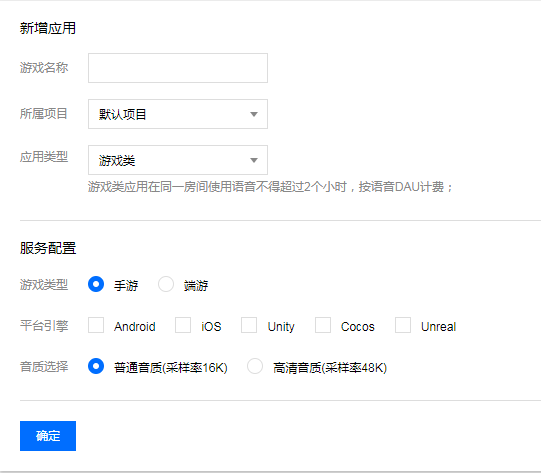
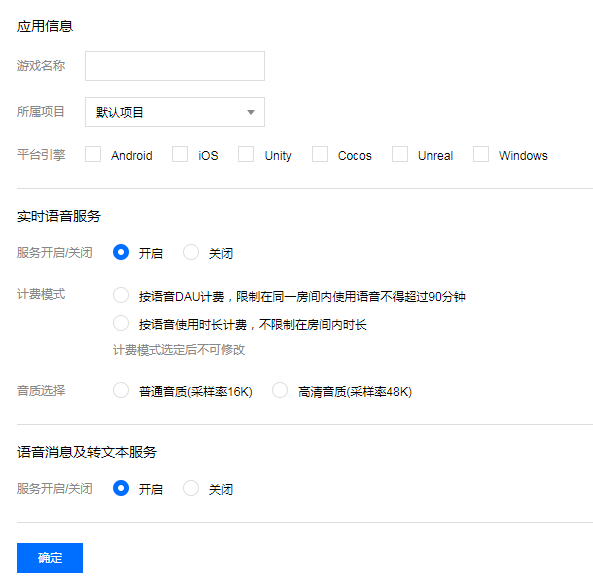
GME SDK

diff --git a/GME Introduction.md b/GME Introduction.md
@@ -24,53 +24,41 @@
 
 ### 2.填入相应的信息。  
 填写该页面所需信息，按照需要选择所需的服务。 
-> 应用类型的不同会导致设置的选项有所不同，设置完成后不可再修改。应用类型不同也会影响收费，收费请参考[产品价格](https://cloud.tencent.com/product/tmg?idx=1#price)及咨询相关腾讯云商务工作人员。
-> 游戏类应用需选择相应的游戏类型及平台引擎。根据技术人员提供的方案选择相应的采样率。
-
-#### 新建游戏类应用参考图：
+> 计费方式不同收费也不同，设置完成后不可再修改，收费请参考 [产品价格](https://cloud.tencent.com/product/tmg?idx=1#price) 及咨询相关腾讯云商务工作人员。
+> 如果是游戏类应用，需选择相应的平台引擎。根据技术人员提供的方案选择相应的采样率。
+> 语音消息及转文本服务设置完成可再修改。
 
 ![image](Image/j2.png)
-
-#### 新建社交主播类应用参考图：
-
-![image](Image/j3.png)
 
 ### 3.创建应用成功后，应用管理列表就有刚刚创建的应用。
 - 列表中的 AppID 在接入 SDK 进行开发过程中会作为参数使用。
 
-![image](Image/j4.png)
+![image](Image/j3.png)
 
 ### 4.应用管理列表中，在相应的应用那一行，点击【设置】按钮，进入应用设置。
 
-#### 游戏类应用设置参考图：
+![image](Image/j4.png)
+应用信息模块，单击【修改】后可对相应信息进行修改。
 
+### 5.鉴权信息模块，可获取应用相应的鉴权。
 ![image](Image/j5.png)
 
-#### 社交主播类应用设置参考图：
-> 主播社交类应用无【服务配置】模块。
-
-![image](Image/j6.png)
-
-### 5.应用信息模块，点击【修改】后页面如图。应用名称及项目可修改，应用类型不可修改。
-
-![image](Image/j7.png)
-
-### 6.鉴权信息模块
 - 此模块中的权限密钥会作为参数使用到 SDK 接入过程中。 
 - 只有创建游戏的账号、主账号、全局协作者可以操作【重置秘钥】。
 - 页面修改密钥后，15 分钟 ~ 1 小时内生效，不建议频繁更换。
 - 点击【下载公私钥】可以下载此应用离线语音相应的公私钥。
-#### 详细参见[游戏多媒体引擎密钥使用文档](https://github.com/TencentMediaLab/GME/blob/master/GME%20Developer%20Manual/GME%20Key%20Manual.md)。
+
+详细参见[游戏多媒体引擎密钥使用文档](https://github.com/TencentMediaLab/GME/blob/master/GME%20Developer%20Manual/GME%20Key%20Manual.md)。
 
 
 ![image](Image/j8.png)
 
 
-### 7.服务配置模块
-- 此模块只适用于游戏类应用
-在这里可以对服务配置进行更改。
+### 6.业务及服务的开启关闭
+在这里可以对业务及服务进行开启或者关闭。
+![image](Image/j6.png)
 
-![image](Image/j9.png)
+![image](Image/j7.png)
 
 ## 下载 SDK 
 ### 1.下载地址
@@ -125,35 +113,32 @@ Demo 中带有腾讯云测试账号，可进行功能体验，如需更换个人
 
 ## 控制台用量统计使用
 
-### 1.在应用管理界面打开用量统计
+### 在应用管理界面打开用量统计
 
-在所需查询的应用中点击【用量统计】。
+在所需查询的应用中单击【用量统计】。
 
-![image](Image/j4.png)
+![image](Image/j3.png)
 
 
-### 2.游戏类应用用量统计
+### 实时语音用量统计
 
-用量统计展示游戏类应用DAU数据。
-- 【关键数据1】展示该应用昨日的语音 DAU 总数
-- 【关键数据2】展示该应用大陆语音 DAU 数
-- 【关键数据3】展示该应用海外语音 DAU 数
+
+用量统计展示实时语音应用 DAU 数据。
+- 【语音 DAU 总数】展示该应用昨日的语音 DAU 总数
+- 【大陆语音 DAU 数】展示该应用大陆语音 DAU 数
+- 【海外语音 DAU 数】展示该应用海外语音 DAU 数
 - 默认显示近 7 天的总量 DAU 数据，支持切换时间、切换地域查看用量数据
-- 数据详情中点击【下载】图标则将所选日期内的用量数据下载为 Excel
 
 ![image](Image/j11.png)
 
 
-
-### 3.社交直播类应用用量统计
-
-用量统计展示社交主播类应用 DAU 数据。
-- 【关键数据1】展示该应用昨日的语音时长
-- 语音时长单位为分钟，这里的交互稿显示错误
-- 数据详情中点击【下载】图标则将所选日期内的用量数据下载为 Excel
+### 语音消息及转文本
+用量统计展示离线语音应用 DAU 数据。
+- 【语音 DAU】展示该应用昨日的语音 DAU 总数
+- 【转文本次数】展示该应用昨日的转文本次数
+- 默认显示近 7 天的总量 DAU 数据，支持切换时间查看用量数据
 
 ![image](Image/j12.png)
-
 ## 特殊问题处理
 [腾讯云游戏多媒体引擎FAQ文档](https://github.com/TencentMediaLab/GME/blob/master/GME%20Developer%20Manual/GME%20FAQ%20Manual.md)    
 [错误码文档](https://github.com/TencentMediaLab/GME/blob/master/GME%20Developer%20Manual/GME%20Error%20Code.md)

diff --git a/GME Developer Manual/iOS Developer Manual/iOS SDK Developer Manual.md b/GME Developer Manual/iOS Developer Manual/iOS SDK Developer Manual.md
@@ -24,7 +24,7 @@
 
 |重要接口     | 接口含义   
 | ------------- |:-------------:|
-|Init    				       			|初始化 GME 
+|InitEngine    				       	|初始化 GME 
 |GenAuthBuffer    					|初始化鉴权
 |SetDefaultAudienceAudioCategory 	|设置后台
 |EnterRoom	 						|进房 
@@ -36,7 +36,7 @@
 
 |接口     | 接口含义   
 | ------------- |:-------------:|
-|Init    				       			|初始化 GME 
+|InitEngine    				       	|初始化 GME 
 |Poll    				       			|设置回调触发
 |Uninit    				       		|反初始化 GME 
 |GenAuthBuffer    					|初始化鉴权
@@ -124,7 +124,7 @@ _context.TMGDelegate =self;
 > 函数原型
 
 ```
-ITMGContext -(void)Init:(NSString*)sdkAppID openID:(NSString*)openID
+ITMGContext -(void)InitEngine:(NSString*)sdkAppID openID:(NSString*)openID
 ```
 
 |参数     | 类型         |意义|
@@ -134,7 +134,7 @@ ITMGContext -(void)Init:(NSString*)sdkAppID openID:(NSString*)openID
 > 示例代码  
 
 ```
-[[ITMGContext GetInstance] Init:SDKAPPID3RD openID:_openId];
+[[ITMGContext GetInstance] InitEngine:SDKAPPID3RD openID:_openId];
 ```
 
 
@@ -308,7 +308,7 @@ ITMGContext -(void)SetLogPath:(NSString*)logDir
 用生成的鉴权信息进房，会收到消息为 ITMG_MAIN_EVENT_TYPE_ENTER_ROOM 的回调。
 >注意:
 >1、加入房间默认不打开麦克风及扬声器。
->2、在 EnterRoom 接口调用之前要先调用 Init 接口。
+>2、在 EnterRoom 接口调用之前要先调用 InitEngine 接口。
 
 > 函数原型
 
